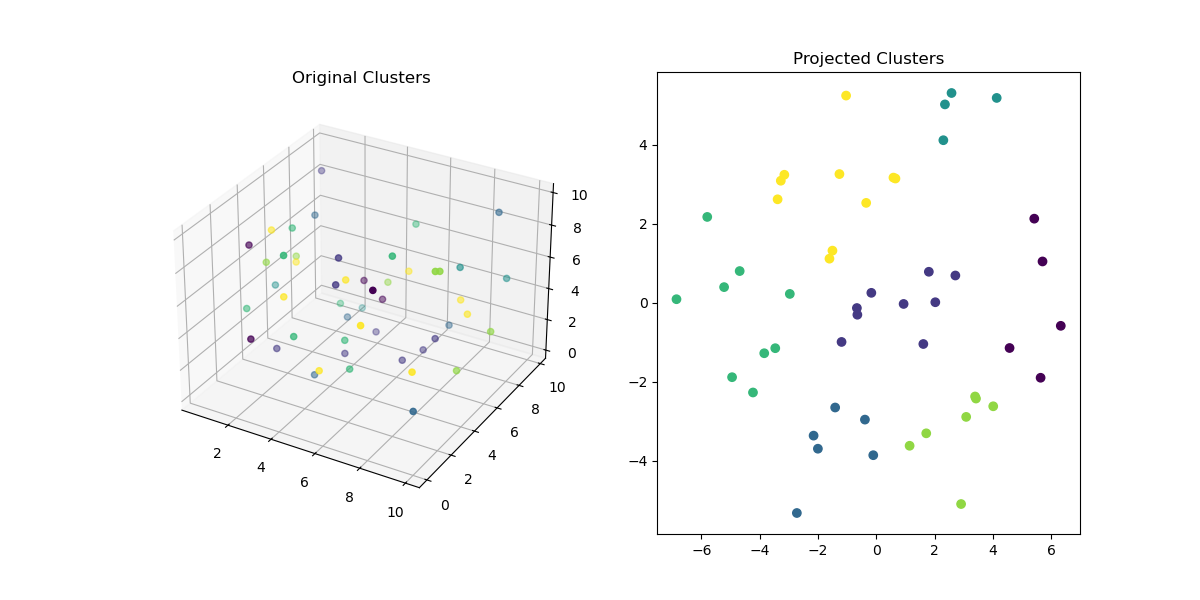
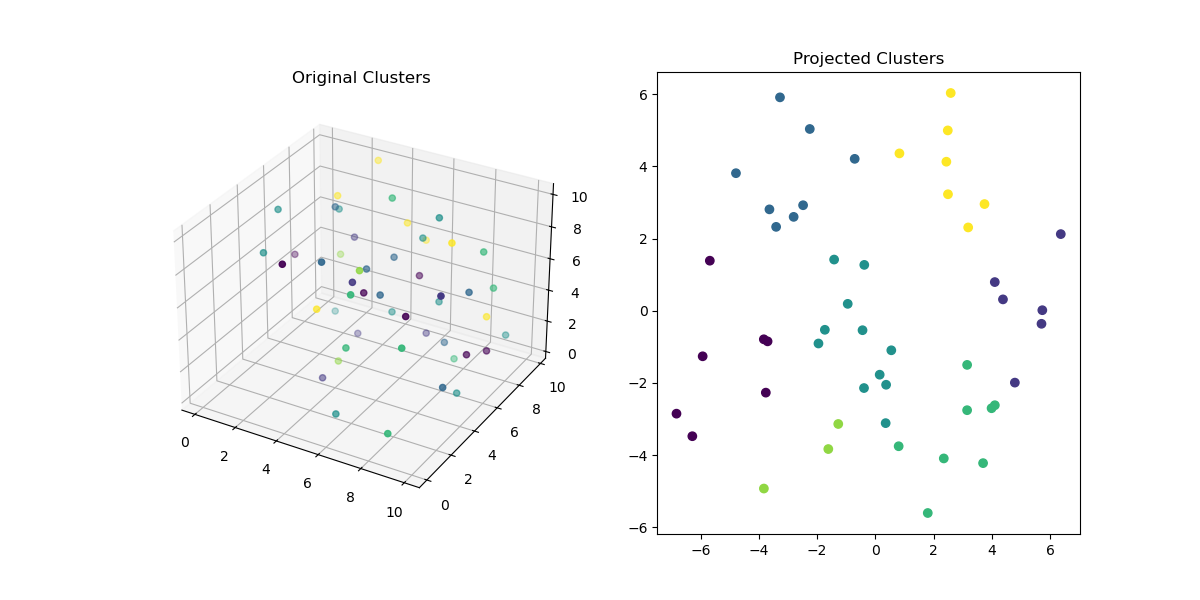
Testing with 6-dim pcoord and plotting 3d(orig) and 2d (pca) proj clusters

diff --git a/werl/werl_reap.py b/werl/werl_reap.py
@@ -31,8 +31,6 @@ class REAP(WERL):
         n_select allows for a sub-selection of clusters, this way the worst case is LCAS-like.
         '''
         # Which clusters contain lowest populations
-        #least_counts = np.asarray(self.counts[::-1][:])[:, 0]
-        #least_counts = np.asarray(self.counts[::-1][:self.n_clusters])[:, 0]
         if self.pca:
             least_counts = np.asarray(self.counts[::-1][:n_select])[:, 0]
             closest, _ = pairwise_distances_argmin_min(self.centers, self.projected)
@@ -47,25 +45,15 @@ class REAP(WERL):
         '''
         Computes the reward for each structure and returns it as an array.
         '''
-        #print("Selected Points: ", selected_points)
+
         mu = self.pcoords.mean(axis=0)
         sigma = self.pcoords.std(axis=0)
         print(mu)
         print(sigma)
         print(weights)
-        #selected_points = selected_points[:, :2]  # Drop third dimension
 
-        # Shape is (selected_points.shape[0],)
-        # print(weights * np.abs(selected_points - mu) / sigma)
-        # print((weights * np.abs(selected_points - mu) / sigma).shape)
-        # print((weights * np.abs(selected_points - mu) / sigma).sum(axis=1))
         reward = (weights * np.abs(selected_points - mu) / sigma)
-        # make sure 2d array sum axis indexable
-        #reward = np.atleast_2d(reward)
-
-        # print("Reward shape: ", reward.shape)
-        # print("Reward: ", reward)
-        # print("Reward SUM: ", reward.sum(axis=1))
+ 
         return reward.sum(axis=1)
 
     def compute_cumulative_reward(self, selected_points, weights):
@@ -310,18 +298,13 @@ if __name__ == "__main__":
     print(f"pcoord full shape: {pcoords.shape}")
     weights = np.ones(80) / 80
 
-    # cut to n walkers for testing
-    # pcoords = pcoords[40:,:,:]
-    # weights = np.ones(40) / 40
-
     # test init data
-    pcoords = np.array([np.random.uniform(0, 10, (50,5,3))])[0] # 6 dim pcoord for testing, shape (1, 50, 6)
+    pcoords = np.array([np.random.uniform(0, 10, (50,5,6))])[0] # 6 dim pcoord for testing, shape (50, 5, 6) for 50 walkers, 5 frames, 6 pcoord dims
     weights = np.array([0.02] * 50)
     print(pcoords.shape)
 
     # REAP test
     werl = REAP(pcoords, weights, pca=True)
-    #print("N_CLUSTERS: ", werl.n_clusters)
     split, merge = werl.reap(pca=True, op_weights_file='test_data/op_weights.txt')
     print("CLUSTER COUNTS: ", werl.counts)
     print("CLUSTER COUNTS: ", werl.counts.shape)
